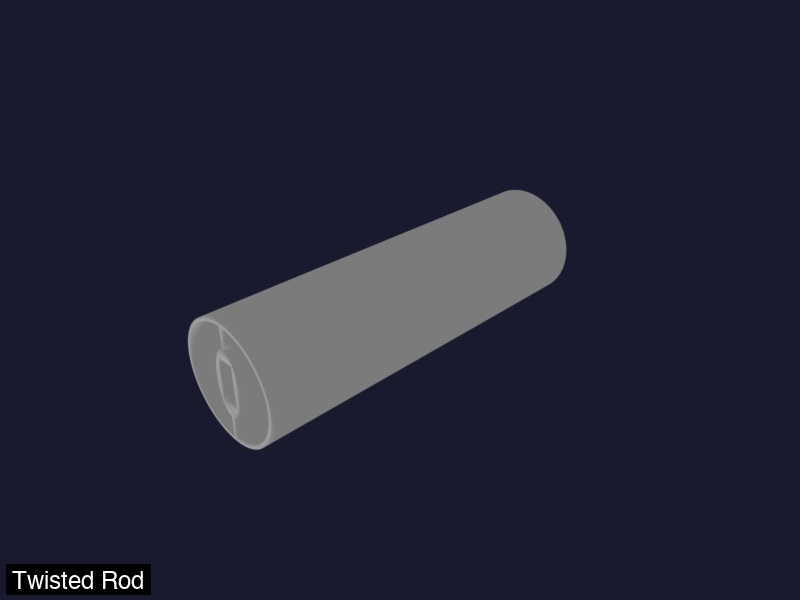
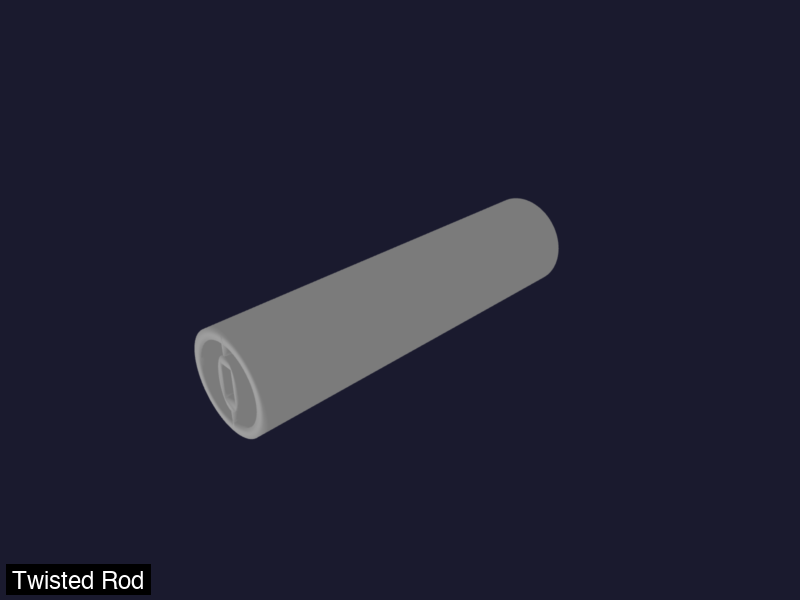
Add stevedore knot and preserve_aspect_ratio scaling
- Add stevedore (k6_1) knot with ribbon aux spine
- scale_pyknot_points: add preserve_aspect_ratio (default True); when False,
  scale each axis independently to fill bounding box
- figure_8, k4_1, trefoil: use tube padding and preserve_aspect_ratio=False
- Clean up commented code in figure_8
- Include stevedore in generate_previews; regenerate preview assets

Made-with: Cursor

Changed region(s): [[0.2188, 0.3, 0.6875, 0.75], [0.4688, 0.51, 0.625, 0.63], [0.625, 0.36, 0.7188, 0.51]]

diff --git a/src/led_knots/core/utils.py b/src/led_knots/core/utils.py
@@ -112,6 +112,7 @@ def scale_pyknot_points(
     height: float,
     length: float,
     padding: Union[float, Tuple[float, float, float]] = 0.0,
+    preserve_aspect_ratio: bool = True,
 ) -> np.ndarray:
     """
     Scale pyknot points to fit within a bounding box while preserving aspect ratio.
@@ -129,6 +130,9 @@ def scale_pyknot_points(
                  If a single float, the same padding is applied to all three
                  dimensions. If a tuple of three numbers, interpreted as
                  (width_padding, height_padding, length_padding).
+        preserve_aspect_ratio: When True (default), uses a uniform scale factor
+            so the knot preserves its proportions. When False, scales each axis
+            independently to fill the (padded) bounding box.
         
     Returns:
         numpy array of scaled points with the same shape as input
@@ -158,12 +162,15 @@ def scale_pyknot_points(
     scale_x = effective_width / span_x if span_x > 0 else 1.0
     scale_y = effective_height / span_y if span_y > 0 else 1.0
     scale_z = effective_length / span_z if span_z > 0 else 1.0
-    
-    # Use the minimum scale factor to preserve aspect ratio and ensure it fits
-    scale_factor = min(scale_x, scale_y, scale_z)
 
-    # Scale the points
-    scaled = points * scale_factor
+    if preserve_aspect_ratio:
+        # Use the minimum scale factor to preserve aspect ratio and ensure it fits
+        scale_factor = min(scale_x, scale_y, scale_z)
+        scaled = points * scale_factor
+    else:
+        # Scale each axis independently to fill the (padded) bounding box
+        scales = np.array([scale_x, scale_y, scale_z], dtype=float)
+        scaled = points * scales
 
     # Translate so that the scaled points lie entirely in the positive octant
     # (i.e. the minimum x, y, z coordinates are at 0).

diff --git a/src/led_knots/knots/stevedore.py b/src/led_knots/knots/stevedore.py
@@ -1,8 +1,8 @@
 """
-K4_1 knot creation using CadQuery.
+Stevedore knot creation using CadQuery.
 
-Creates a k4_1 knot by sweeping an LED circle cross-section
-along a mathematical k4_1 knot path generated by pyknotid.
+Creates a stevedore knot by sweeping an LED circle cross-section
+along a mathematical stevedore knot path generated by pyknotid.
 
 Uses build_ribbon_aux_spine(path, config) to constrain twist from config
 (min_90_degree_twist_distance) and align bends with the flexible axis.
@@ -22,20 +22,18 @@ from led_knots.core import (
 
 logger = logging.getLogger(__name__)
 
-config = get_config(name="K4_1 Knot", description="Create and render a k4_1 knot")
+config = get_config(name="Stevedore Knot (k6_1)", description="Create and render a stevedore knot")
 
 spine_offset_radius = 5.0
 
-# Generate the k4_1 knot path using pyknotid, scaled to config output bounds.
-# More points give a smoother path; 150 balances smoothness and build time.
-k = mk.k4_1(num_points=150)
+k = mk.k6_1(num_points=300)
 knot_coords = scale_pyknot_points(
     k.points,
     width=config.output_bounds.width,
     height=config.output_bounds.width,
     length=config.output_bounds.height,
     padding=config.tube_settings.outer_radius,
-    preserve_aspect_ratio=False
+    preserve_aspect_ratio=False,
 )
 knot_points = [(float(p[0]), float(p[1]), float(p[2])) for p in knot_coords]
 

diff --git a/src/led_knots/knots/figure_8.py b/src/led_knots/knots/figure_8.py
@@ -20,20 +20,7 @@ config = get_config(
     description="Create and render a figure 8 knot"
 )
 
-# Generate the torus knot path using pyknotid
-# k = torus_knot(num=150).points
-
-# k = periodic_knot.p4_4__1()
-
 k = torus_knot(p=5, q=10, num=150).points
-
-# k = k8_21()
-# k.plot(mode='matplotlib')
-
-# canvas = app.Canvas(keys='interactive')
-# plot_line_vispy(k.points).show()
-
-
 
 # Scale the knot coordinates to fit within the bounding box
 # Using width for x, width for y, and height for z (length)
@@ -41,7 +28,9 @@ knot_coords = scale_pyknot_points(
     k,
     width=config.output_bounds.width,
     height=config.output_bounds.width,
-    length=config.output_bounds.height
+    length=config.output_bounds.height,
+    padding=config.tube_settings.outer_radius,
+    preserve_aspect_ratio=False,
 )
 
 # Convert numpy array to list of 3D points for CadQuery

diff --git a/src/led_knots/knots/trefoil.py b/src/led_knots/knots/trefoil.py
@@ -34,6 +34,8 @@ knot_coords = scale_pyknot_points(
     width=config.output_bounds.width,
     height=config.output_bounds.width,
     length=config.output_bounds.height,
+    padding=config.tube_settings.outer_radius,
+    preserve_aspect_ratio=False,
 )
 knot_points = [(float(p[0]), float(p[1]), float(p[2])) for p in knot_coords]
 

diff --git a/scripts/generate_previews.py b/scripts/generate_previews.py
@@ -29,7 +29,8 @@ KNOTS = [
     "figure_8",
     # "sine_wave",
     "trefoil",
-    "k4_1"    
+    "k4_1",
+    "stevedore",
 ]
 
 # Duration per frame in the combined GIF (milliseconds)
